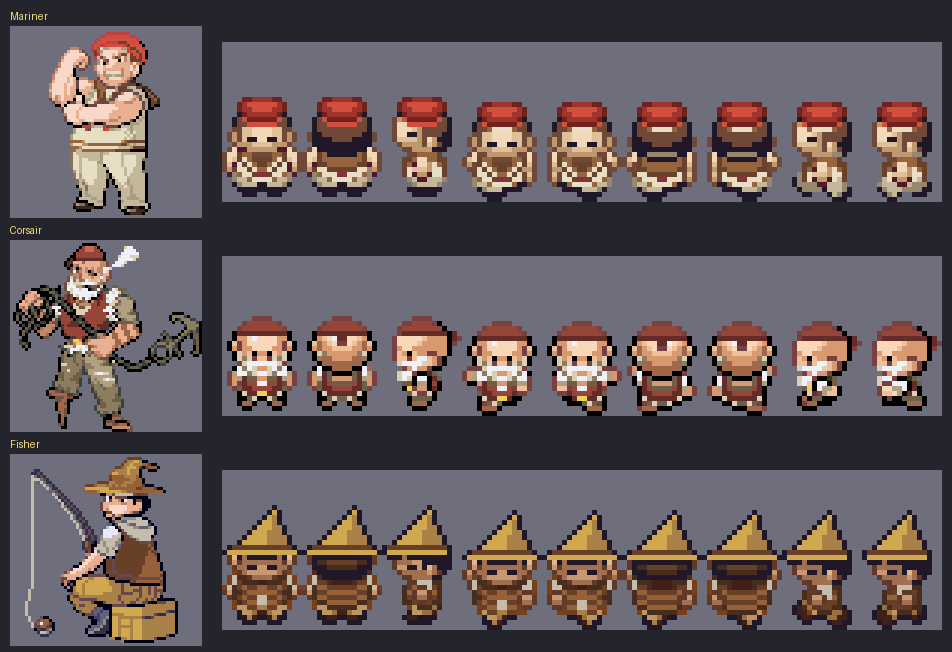
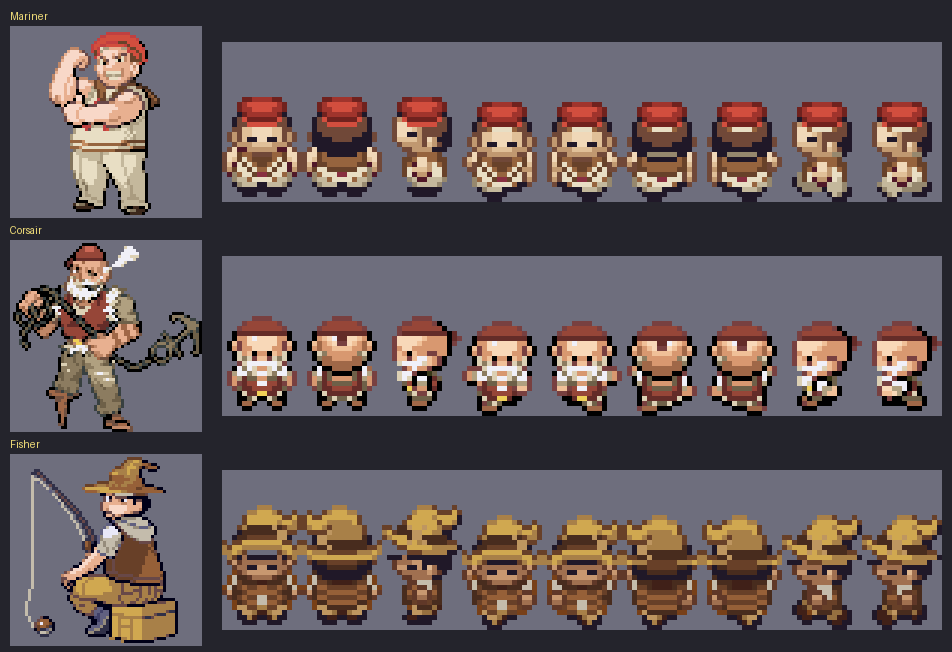
Fisher walker: MonoMyth witch hat shape, in tan felt
Claude-Session: https://claude.ai/code/session_01FHXnfqnedTHLf5QFbB3MCU

Changed region(s): [[0.2132, 0.7669, 1.0, 0.8896]]

diff --git a/tools/npc/walkers/seafolk.py b/tools/npc/walkers/seafolk.py
@@ -108,6 +108,40 @@ def corsair():
     return idx, pal
 
 
+MM87_TO_EMERALD = [0, 1, 2, 4, 5, 6, 7, 8, 9]          # its 12 frames: S N W E, walk S x2, N x2, W x2, E x2
+
+
+def witch_hat(sub, f, brim):
+    """The Fisher's hat (user 2026-11-26: "go look at witch overworld sprites in MonoMyth so you can see how a witch
+    hat looks"): MonoMyth 87's witch hat itself (a short crown whose floppy tip folds over to the back, a dark band
+    with a buckle, a wide floppy brim drooping past the face at both sides), frame for frame, its brim set on the
+    Fisher's cap line; greens -> tan felt (light 11, mid 12, dark 9), the band -> dark leather (10), the buckle ->
+    tan (5), outlines black (15). Replaces a drawn tall cone ("looks like a string" at its tip)."""
+    m = MM87_TO_EMERALD[f]
+    w87 = np.array(Image.open(os.path.join(HERE, 'mm_87.png')))[:, m * 16:(m + 1) * 16]
+    HAT = {3: 11, 1: 12, 2: 9, 5: 10, 6: 10, 7: 5}
+    hat = np.isin(w87, list(HAT))
+    hat[20:] = False                                       # the hat ends with the brim's drooping tips (row 19)
+    # its outline (4, 15): only where it borders the hat, above the face
+    edge = np.isin(w87, (4, 15)) & False
+    near = np.zeros_like(hat)
+    near[1:] |= hat[:-1]; near[:-1] |= hat[1:]; near[:, 1:] |= hat[:, :-1]; near[:, :-1] |= hat[:, 1:]
+    edge = np.isin(w87, (4, 15)) & near
+    edge[19:] = False
+    rows = [y for y in range(32) if hat[y].sum() >= 8]
+    b87 = max(y for y in rows if y <= 18)                  # its brim's main row
+    dy = brim - b87
+    for y in range(32):
+        ty = y + dy
+        if not 0 <= ty < 32:
+            continue
+        for x in range(16):
+            if hat[y, x]:
+                sub[ty, x] = HAT[int(w87[y, x])]
+            elif edge[y, x]:
+                sub[ty, x] = 15
+
+
 def fisher():
     """Fantasma 221 (user 2026-11-25: "the Fisher is FA 221 ... what needs the pointy hat to match your new front
     sprite"): the baseball cap cleared and a pointed felt hat drawn in its place; the red jacket a leather jerkin, the
@@ -127,36 +161,8 @@ def fisher():
         for x in range(16):                                       # the cap's shadow on the forehead: black hair
             if sub[brim + 1, x] in (10, 14, 8, 9) and x0 < x < x1:
                 sub[brim + 1, x] = HAIR
-        bx0, bx1 = max(0, x0 - (2 if fac == 'W' else 1)), min(15, x1 + (0 if fac == 'W' else 1))
-        for x in range(bx0, bx1 + 1):                             # the brim
-            sub[brim, x] = O if x in (bx0, bx1) else LIGHT
-        for x in range(x0 + 1, x1):                               # the band
-            sub[brim - 1, x] = DARK
-        sub[brim - 1, x0] = O
-        sub[brim - 1, x1] = O
-        # the crown (user 2026-11-25: the first version "looks like you cut it off at the very tip"): even edges, the
-        # left stepping in a pixel every row and the right every other row (it leans back), closing to a one-pixel
-        # outlined tip (a bent-over last pixel read as a string and was dropped)
-        left, right = x0 + 2, x1 - 1
-        y = brim - 2
-        k = 0
-        while y >= 0:
-            l, r = left + k, right - k // 2
-            if r - l + 1 <= 3:                                    # the tip: felt to the end (user 2026-11-26: bare
-                l = min(l, 15 - 2)                                # outline there "looks like a string")
-                sub[y, l] = O
-                sub[y, l + 1] = LIGHT
-                sub[y, l + 2] = O
-                if y - 1 >= 0:
-                    sub[y - 1, l + 1] = O                         # capped by one outline pixel
-                break
-            for x in range(l, r + 1):
-                if x in (l, r):
-                    sub[y, x] = O
-                else:
-                    sub[y, x] = LIGHT if x - l < (r - l + 1) / 2 else MID
-            y -= 1
-            k += 1
+        witch_hat(sub, f, brim)
+        # (the drawn brim, band and crown above are replaced: see witch_hat below)
     pal = list(pal)
     pal[11], pal[12] = (208, 168, 80), (168, 128, 72)             # the felt
     pal[8], pal[9], pal[10] = (150, 96, 56), (104, 64, 40), (72, 44, 30)    # the jerkin's leather

diff --git a/docs/chapter1_workflow.md b/docs/chapter1_workflow.md
@@ -360,4 +360,10 @@ Once the next few phases of Chapter 1 are further along, the user wants **anothe
   back), closing to a point **filled with felt to the end** (a 3-wide row, outline-felt-outline, capped by one
   outline pixel; a tip of bare outline, and a bent-over last pixel, read as a string: user "the tip looks like a
   string").
+  **Then rebuilt on MonoMyth's own witch hat** (user 2026-11-26: "go look at witch overworld sprites in MonoMyth so
+  you can see how a witch hat looks"): MonoMyth 87's hat is not a tall cone but **a short crown whose floppy tip
+  folds over to the back, a dark band with a buckle, and a wide floppy brim drooping past the face at both sides**.
+  Its hat is lifted frame for frame (its 12-frame order onto Emerald's 9: 0, 1, 2, 4, 5, 6, 7, 8, 9) onto the
+  Fisher's head, its brim on his cap line; greens to tan felt, the band dark leather, the buckle tan, outlines kept
+  (`seafolk.witch_hat`; `assets/npc_survey/fisher_walker_hat_v4.png`, MonoMyth's witch above for comparison).
   `assets/npc_survey/fisher_walker_hat_v3.png`.
